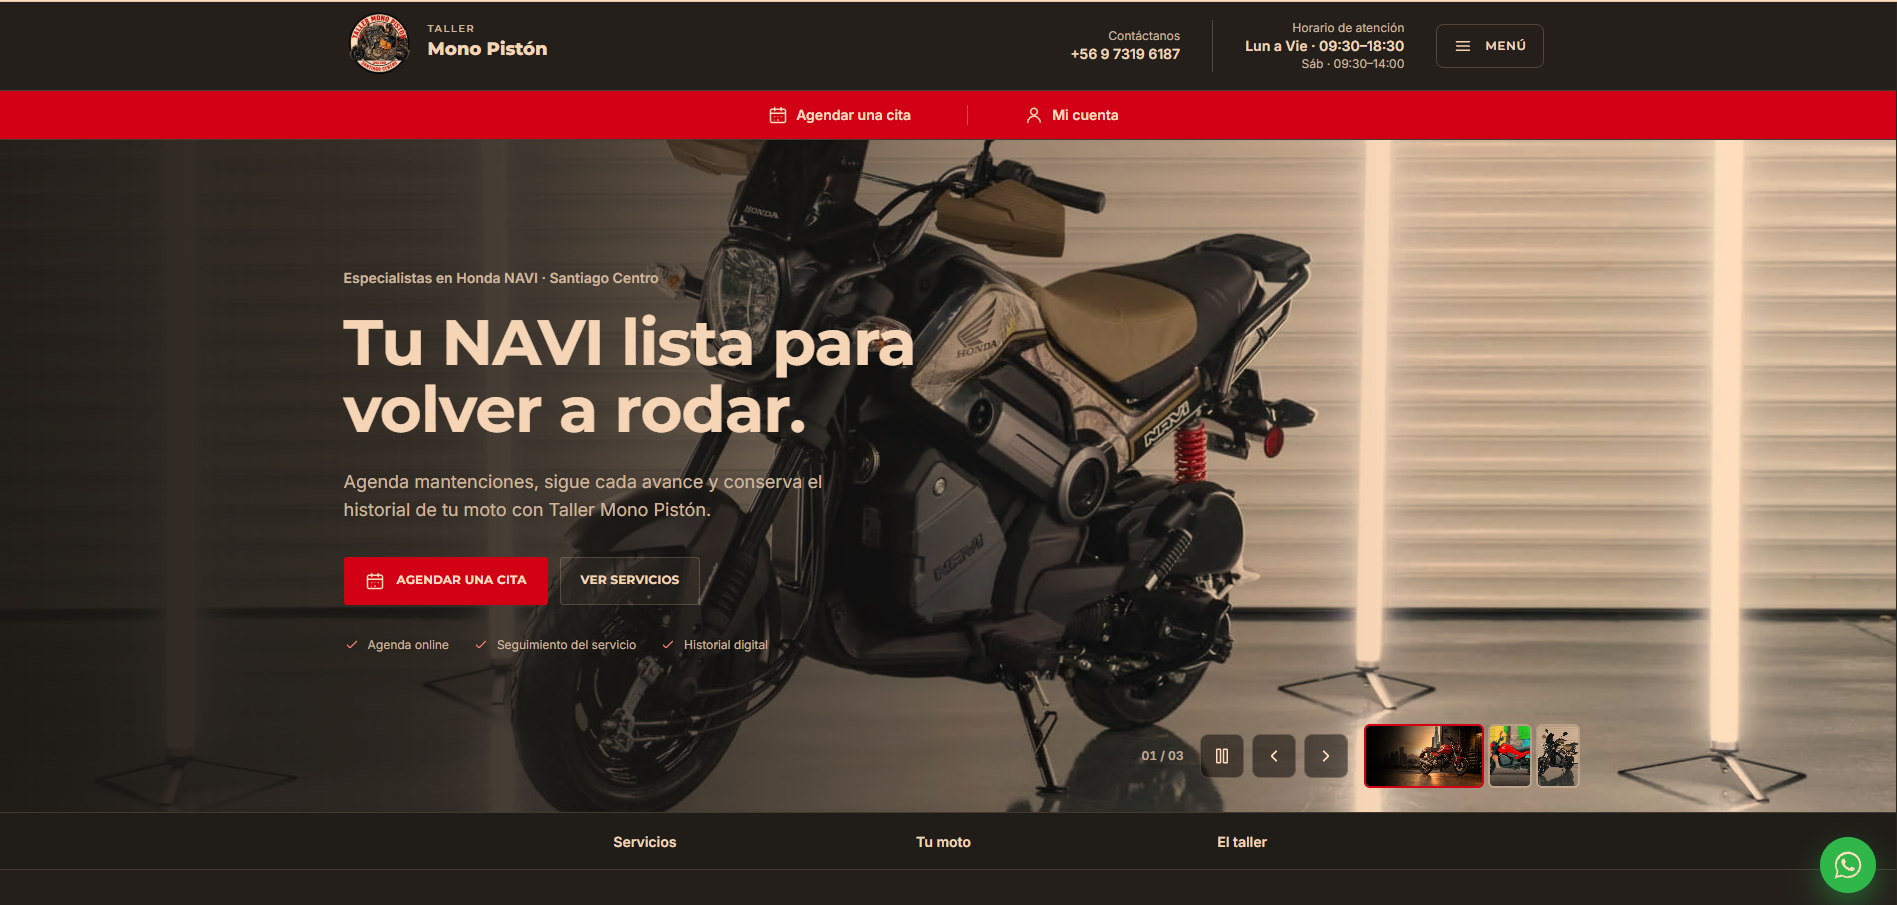
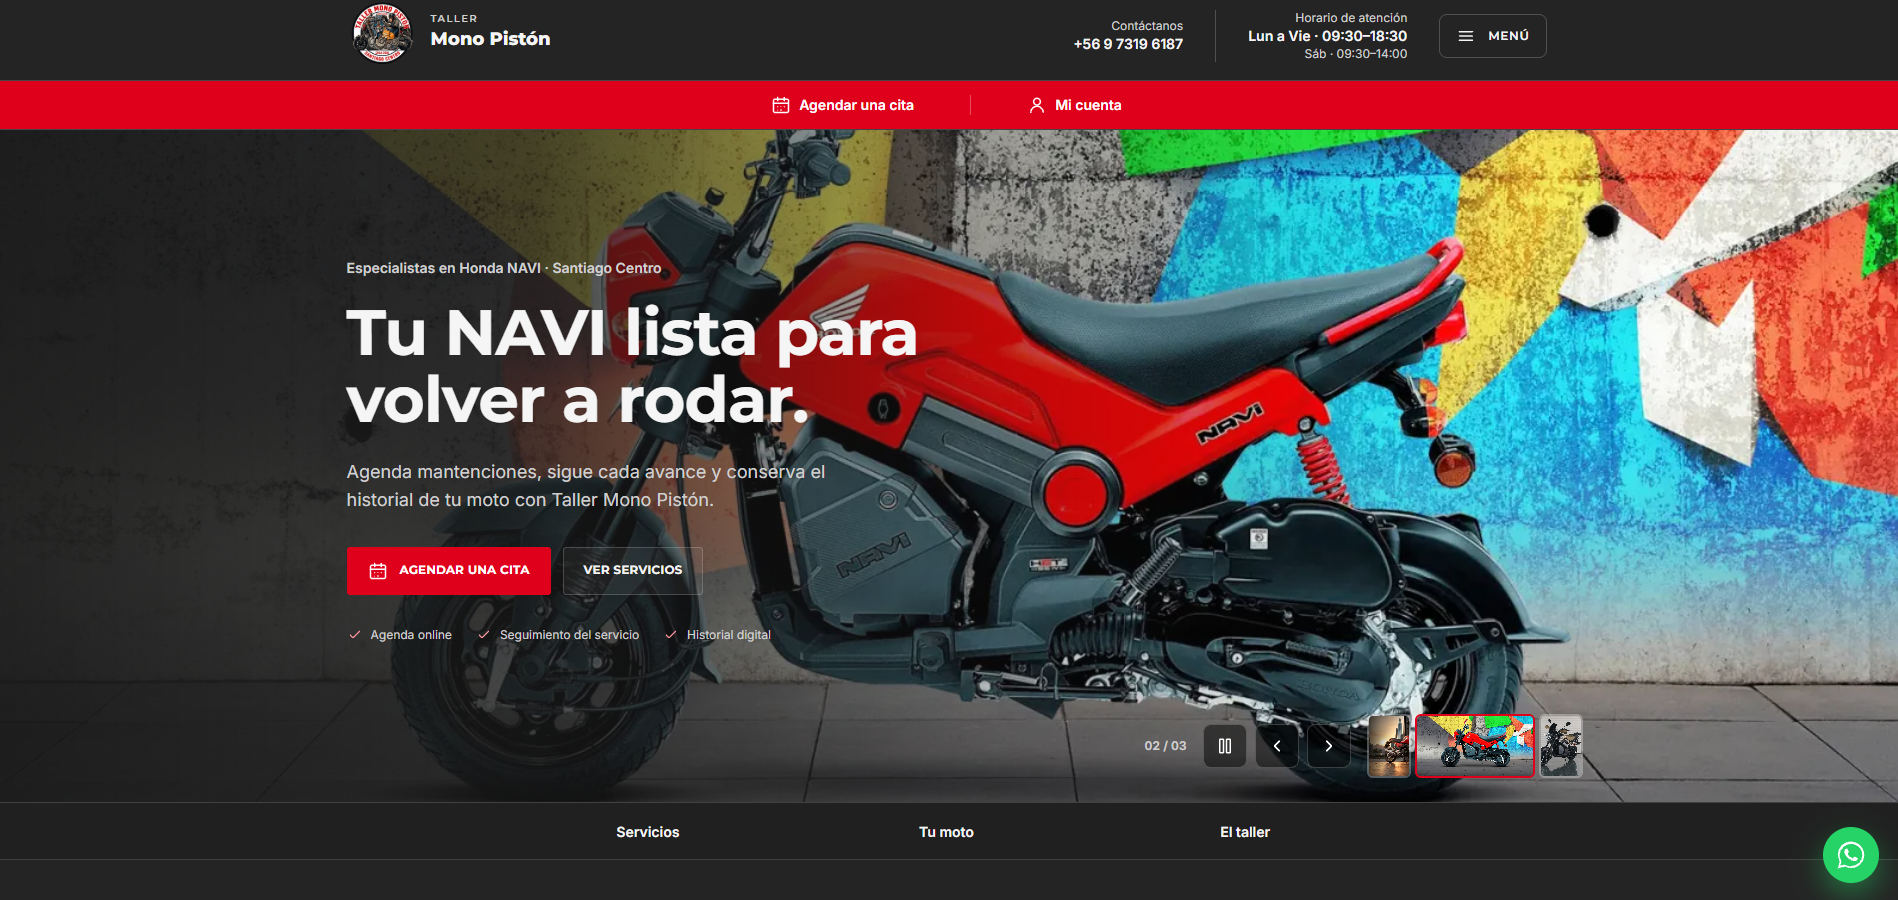
feat: link carousel previews and add ordered project catalog

diff --git a/src/styles/global.css b/src/styles/global.css
@@ -375,12 +375,12 @@ h2 {
   line-height: 1;
 }
 .menu-shell nav {
-  padding: 35px 0 40px;
+  padding: clamp(45px, 8vh, 85px) 0 40px;
   display: flex;
   flex-direction: column;
   max-width: 1000px;
   flex: 1;
-  justify-content: center;
+  justify-content: flex-start;
 }
 .menu-shell nav a {
   display: flex;
@@ -1452,5 +1452,136 @@ html {
   }
   .hero-cover h1 {
     font-size: clamp(43px, 11vw, 76px);
+  }
+}
+
+.project-visual {
+  cursor: pointer;
+}
+.project-visual:focus-visible {
+  outline-offset: -5px;
+}
+.project-visual .project-screen {
+  transition: box-shadow 0.25s;
+}
+.project-visual:hover .project-screen {
+  box-shadow:
+    0 30px 70px #0006,
+    0 0 0 2px #c6b2ef55;
+}
+.project-list {
+  margin-top: 70px;
+  padding-top: 55px;
+  border-top: 1px solid var(--line);
+}
+.project-catalog {
+  list-style: none;
+  padding: 0;
+  margin: 0;
+}
+.project-list-item {
+  display: grid;
+  grid-template-columns: 1fr 1.1fr;
+  gap: 60px;
+  align-items: center;
+  padding: 45px 0;
+  border-bottom: 1px solid var(--line);
+}
+.project-catalog > li:first-child .project-list-item {
+  padding-top: 0;
+}
+.project-list-preview {
+  display: block;
+  position: relative;
+  min-width: 0;
+  padding: 18px;
+  border: 1px solid #ffffff12;
+  border-radius: 8px;
+  background: var(--surface);
+  overflow: hidden;
+}
+.project-list-preview > img {
+  display: block;
+  width: 100%;
+  height: auto;
+  aspect-ratio: 1.9;
+  object-fit: contain;
+  transition: transform 0.3s;
+}
+.project-list-preview:hover > img {
+  transform: scale(1.025);
+}
+.preview-action {
+  position: absolute;
+  right: 20px;
+  bottom: 20px;
+  background: #1b1822eb;
+  border: 1px solid #c6b2ef55;
+  padding: 8px 12px;
+  font-size: 13px;
+  border-radius: 3px;
+  opacity: 0;
+  transform: translateY(5px);
+  transition:
+    opacity 0.2s,
+    transform 0.2s;
+}
+.project-list-preview:hover .preview-action,
+.project-list-preview:focus-visible .preview-action {
+  opacity: 1;
+  transform: none;
+}
+.project-list-copy {
+  min-width: 0;
+}
+.project-list-copy .section-label {
+  margin-bottom: 12px;
+}
+.project-list-copy h3 {
+  font-size: clamp(26px, 2.7vw, 38px);
+  line-height: 1.15;
+  font-weight: 500;
+  letter-spacing: -0.035em;
+}
+.project-list-copy > p {
+  color: var(--muted);
+  font-size: 15px;
+  margin: 18px 0;
+  max-width: 600px;
+}
+.project-list-copy .text-link {
+  margin-top: 22px;
+}
+@media (max-width: 1000px) {
+  .project-list-item {
+    gap: 35px;
+  }
+}
+@media (max-width: 700px) {
+  .project-list {
+    margin-top: 45px;
+    padding-top: 40px;
+  }
+  .project-list-item {
+    grid-template-columns: 1fr;
+    gap: 24px;
+    padding-block: 35px;
+  }
+  .project-list-preview {
+    padding: 12px;
+  }
+  .project-list-copy > p {
+    font-size: 14px;
+  }
+  .project-list-copy h3 {
+    font-size: 29px;
+  }
+  .preview-action {
+    position: static;
+    display: inline-block;
+    margin-top: 10px;
+    opacity: 1;
+    transform: none;
+    font-size: 12px;
   }
 }

diff --git a/src/scripts/carousel.ts b/src/scripts/carousel.ts
@@ -56,9 +56,11 @@ function update(announce = false) {
   thumbs.forEach((button, i) =>
     button.setAttribute("aria-current", String(i === index)),
   );
-  slides.forEach((slide, i) =>
-    slide.setAttribute("aria-hidden", String(i !== index)),
-  );
+  slides.forEach((slide, i) => {
+    slide.setAttribute("aria-hidden", String(i !== index));
+    const link = slide.querySelector<HTMLAnchorElement>(".project-visual");
+    if (link) link.tabIndex = i === index ? 0 : -1;
+  });
   panels.forEach((panel, i) => (panel.hidden = i !== index));
   if (announce)
     announcement.textContent = slides[index].getAttribute("aria-label")!;

diff --git a/README.md b/README.md
@@ -24,6 +24,7 @@ El build ejecuta `astro check` y genera el sitio estático en `dist/`.
 - `src/components/home.astro`: portada inmersiva con arte original y presentación personal.
 - `src/components/nav.astro`: menú de pantalla completa con diálogo nativo, teclado y foco.
 - `src/components/projects.astro` y `src/scripts/carousel.ts`: carrusel Embla con miniaturas, arrastre, navegación por teclado y detalles de cada proyecto. El avance automático comienza al entrar en la sección. Las flechas, miniaturas y el arrastre reinician el intervalo; se puede pausar y respeta movimiento reducido.
+- `src/components/projectList.astro`: proyectos presentados uno por uno, con imagen, descripción, tecnologías y enlace al sitio publicado.
 - `src/components/stack.astro`: fichas de tecnologías con selección por cursor, teclado y toque.
 - `src/components/about.astro`: experiencia y presentación personal.
 - `src/scripts/motion.ts`: entrada de portada, movimiento del fondo, parallax y pausa de animaciones. Respeta movimiento reducido y guarda la preferencia de pausa.
